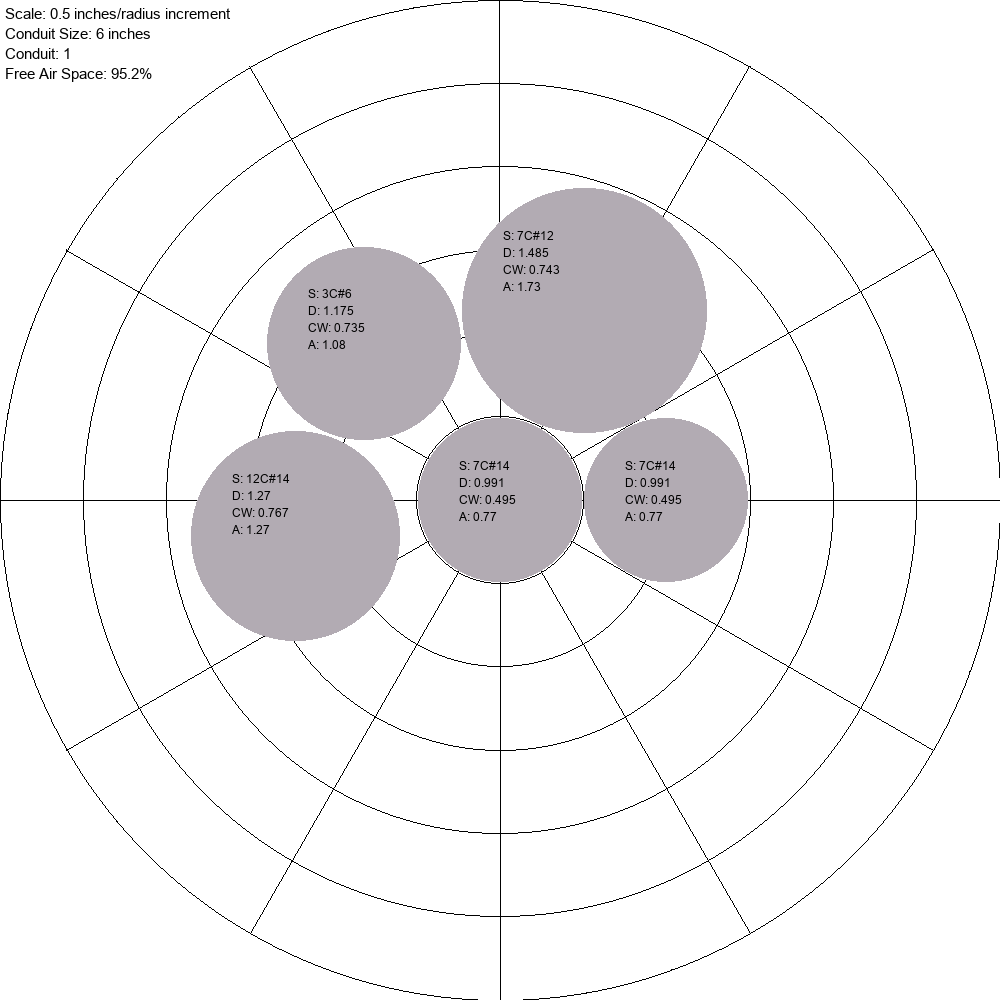
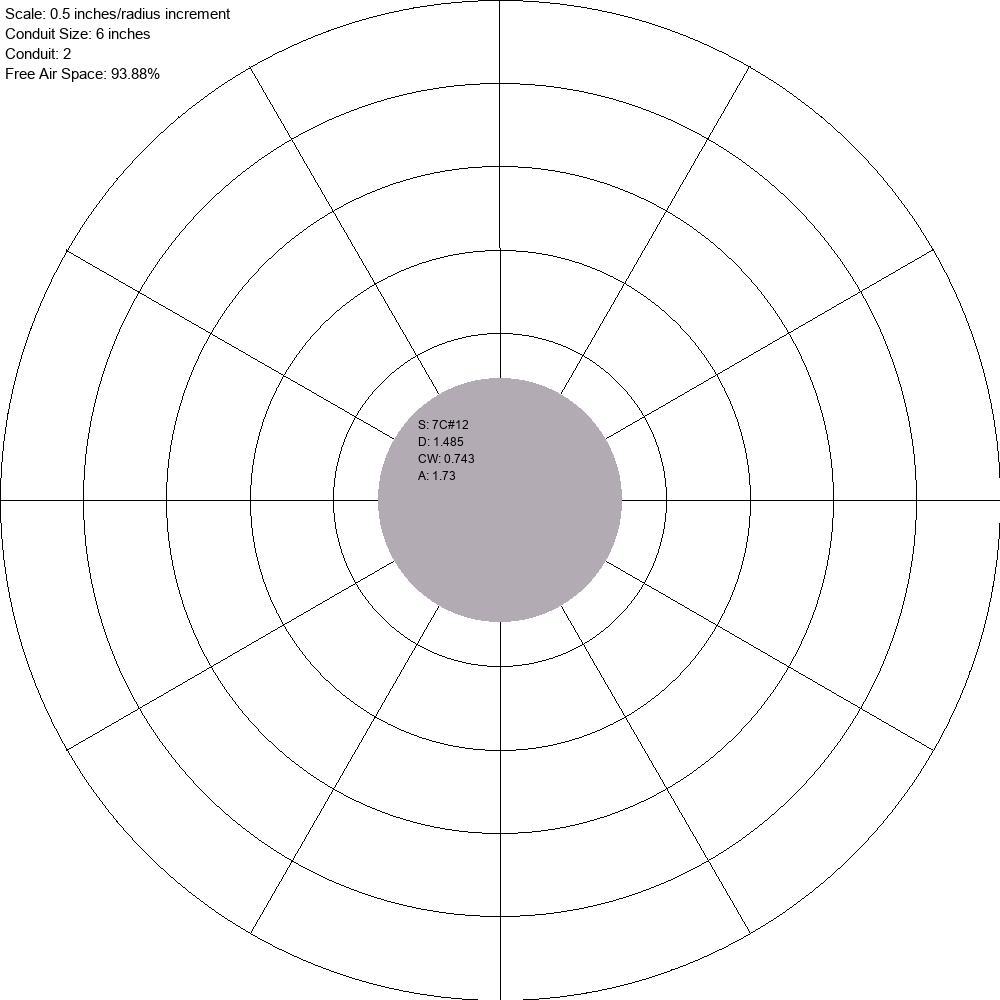
Multiple conduit generation

Changed region(s): [[0.186, 0.186, 0.744, 0.651], [0.124, 0.062, 0.155, 0.093]]

diff --git a/conduit_algorithm.py b/conduit_algorithm.py
@@ -1,16 +1,18 @@
 from cable_classes import *
 from file_handler import *
-from visualizer import add_to_draw_queue
+from visualizer import *
 import math
 
 
 def optimize_for_conduit():
+    global conduit_number
+    global conduit_free_air_space
     # Place first cable down into center
     # current_stationing = list(cables_between_stationing.keys())[0]
     # first_cable = cables_between_stationing[current_stationing][0]
     # add_to_draw_queue(first_cable, 0, 0)
 
-    conduit_name = "conduit1"
+    conduit_name = "conduit" + str(conduit_number)
     conduit = Conduit()
     conduit.add_cable(cable_list[0], 0, 0)
     add_to_draw_queue(cable_list[0], 0, 0)
@@ -28,9 +30,17 @@ def optimize_for_conduit():
         if check_free_air_space(conduit, cable) == 0:
             find_open_space(conduit, cable)
         else:
-            # create another conduit
-            # generate the current image
-            pass
+            print("Creating new conduit")
+            generate_cable_image(draw_queue) # Create full conduit imagae
+            conduit_number += 1              # Identifier for image
+            draw_queue.clear()               # Empty draw queue for next image
+            conduit_name = "conduit" + str(conduit_number)
+            conduit = Conduit()
+            conduit_free_air_space = 100
+            check_free_air_space(conduit, cable)
+            find_open_space(conduit, cable)
+            conduits[conduit_name] = conduit
+            generate_cable_image(draw_queue)
 
 
 def check_free_air_space(conduit, cable):
@@ -39,17 +49,15 @@ def check_free_air_space(conduit, cable):
     for cable in conduit.cables:
         total_area += cable.cross_sectional_area
 
-    print("Total current area taken up in the conduit:", total_area)
+    # print("Total current area taken up in the conduit:", round(total_area, 2))
     total_area += cable.cross_sectional_area
 
-    if total_area / (math.pi * conduit_size ** 2) < (1-free_air_space_requirement):
+    if total_area / (math.pi * (conduit_size/2) ** 2) < (1-free_air_space_requirement):
         print("Conduit can fit next cable")
-        print("Updated total current area taken up in the conduit: ", total_area)
-        print(f"Percent of air space taken up by cable: {round((total_area/113.1)*100, 2)}%")
-        # conduit_free_air_space = round(1-((total_area/113.1)*100), 2)
-        conduit_free_air_space = round(((1 - (total_area / 113.1)) * 100), 2)
+        # print("Updated total current area taken up in the conduit: ", round(total_area, 2))
+        # print(f"Percent of air space taken up by cable: {round((total_area/113.1)*100, 2)}%")
+        conduit_free_air_space = round((1 - (total_area / (math.pi * ((conduit_size/2) ** 2)))) * 100, 2)
         print(f"Free Air Space: {conduit_free_air_space}%")
-
 
         return 0
     else:
@@ -58,82 +66,7 @@ def check_free_air_space(conduit, cable):
         # also generate cable image to have a blank conduit image for next cables
         return 1
 
-#
-# def find_open_space(conduit, new_cable):
-#     radius_increment = 0.5  # Define the radius increment
-#     angle_increment = 30  # Define the angle increment
-#     max_radius = 6  # Maximum radius for placement
-#
-#     # Initial placement at (radius=0, angle=0)
-#     radius = 0
-#     angle = 0
-#
-#     # Function to calculate distance between two polar coordinates
-#     def calculate_distance(r1, a1, r2, a2):
-#         # print("RADIUS 1: ", r1)
-#         # print("RADIUS 2: ", r2)
-#         x1 = r1 * math.cos(math.radians(a1))
-#         y1 = r1 * math.sin(math.radians(a1))
-#         x2 = r2 * math.cos(math.radians(a2))
-#         y2 = r2 * math.sin(math.radians(a2))
-#         return math.sqrt((x2 - x1) ** 2 + (y2 - y1) ** 2)
-#
-#     # Iterate through possible cable placements until a valid one is found or the conduit is full
-#     while True:
-#         # Initialize a flag to track cable overlap
-#         overlap = False
-#
-#         print()
-#         # Iterate through existing cable data within the conduit
-#         for i, existing_cable in conduit.cables:
-#             print(f"Existing Cable Pull Number: {existing_cable.pull_number}")
-#
-#         i=0
-#         for cable_data in conduit.cable_data:
-#             cable_radius, cable_angle = cable_data  # Extract radius and angle from cable data
-#             print(f"Cable Radius TO BE CHECKED: {(conduit.cables[i].diameter)/2}")
-#             print(f"Proposed coordinates: Radius: {radius}, Angle: {angle}")
-#             distance = calculate_distance(radius, angle, cable_radius, cable_angle)  # Calculate distance between cables
-#
-#             print(f"The distance between Cable {conduit.cables[i].pull_number} "
-#                   f"and Cable {new_cable.pull_number} is {distance}")
-#
-#             print(f"The sum of Cable {conduit.cables[i].pull_number} "
-#                   f"and Cable {new_cable.pull_number} radii is {(new_cable.diameter/2) + (conduit.cables[i].diameter)/2}")
-#             print()
-#             # print(f"Distance: {distance}, Radii Sum: {((new_cable.diameter/2) + (cable_radius))}")
-#
-#             # Check if the distance between cables is less than the sum of their diameters (overlap condition)
-#             if distance < ((new_cable.diameter/2) + (conduit.cables[i].diameter/2)):
-#                 # print(f"FAIL: radius: {radius}, angle: {angle}")  # Print failure message with current placement
-#                 overlap = True  # Set the overlap flag to True
-#                 i += 1
-#                 break  # Exit the loop since overlap is detected
-#
-#         # If no overlap is detected, proceed with cable placement
-#         if not overlap:
-#             print(f"PASS: radius: {radius}, angle: {angle}")  # Print successful placement message
-#             print()
-#             # Call a function to add the new cable to the draw queue
-#             conduit.add_cable(new_cable, radius, angle)
-#             add_to_draw_queue(new_cable, radius, angle)
-#             return radius, angle  # Return the valid placement
-#
-#         # Increment angle by angle_increment
-#         if radius == 0:
-#             radius += radius_increment
-#         else:
-#             angle += angle_increment
-#
-#         # Check if angle has completed a full circle (360 degrees)
-#         if angle >= 360:
-#             angle = angle % 360  # Reset angle to 0
-#             radius += radius_increment  # Increment radius
-#
-#         # Check if the conduit is full
-#         if radius > max_radius:
-#             print("Failed: Conduit is full.")
-#             break
+
 def find_open_space(conduit, new_cable):
     radius_increment = 0.25  # Define the radius increment
     angle_increment = 1  # Define the angle increment
@@ -180,7 +113,7 @@ def find_open_space(conduit, new_cable):
 
         # If no overlap is detected, proceed with cable placement
         if not overlap:
-            print(f"PASS - Coorinates: {radius}, {angle}")  # Print successful placement message
+            # print(f"PASS - Coordinates: {radius}, {angle}")  # Print successful placement message
             # print()
             # Call a function to add the new cable to the draw queue
             conduit.add_cable(new_cable, radius, angle)

diff --git a/main.py b/main.py
@@ -11,4 +11,4 @@ get_cable_pull_sheet()        # Pull Sheet excel
 sort_stationing()             # List each stationing value in the pull sheet
 create_stationing_sections()  # List cables between each section of stationing
 optimize_for_conduit()
-generate_cable_image(draw_queue)
+# generate_cable_image(draw_queue)

diff --git a/cable_classes.py b/cable_classes.py
@@ -53,7 +53,7 @@ conduits = {}
 
 conduit_size = 6 # inches
 conduit_number = 1
-conduit_free_air_space = 0
+conduit_free_air_space = 100
 
 # Initialize an empty set to store unique stationing values
 stationing_values = set()
